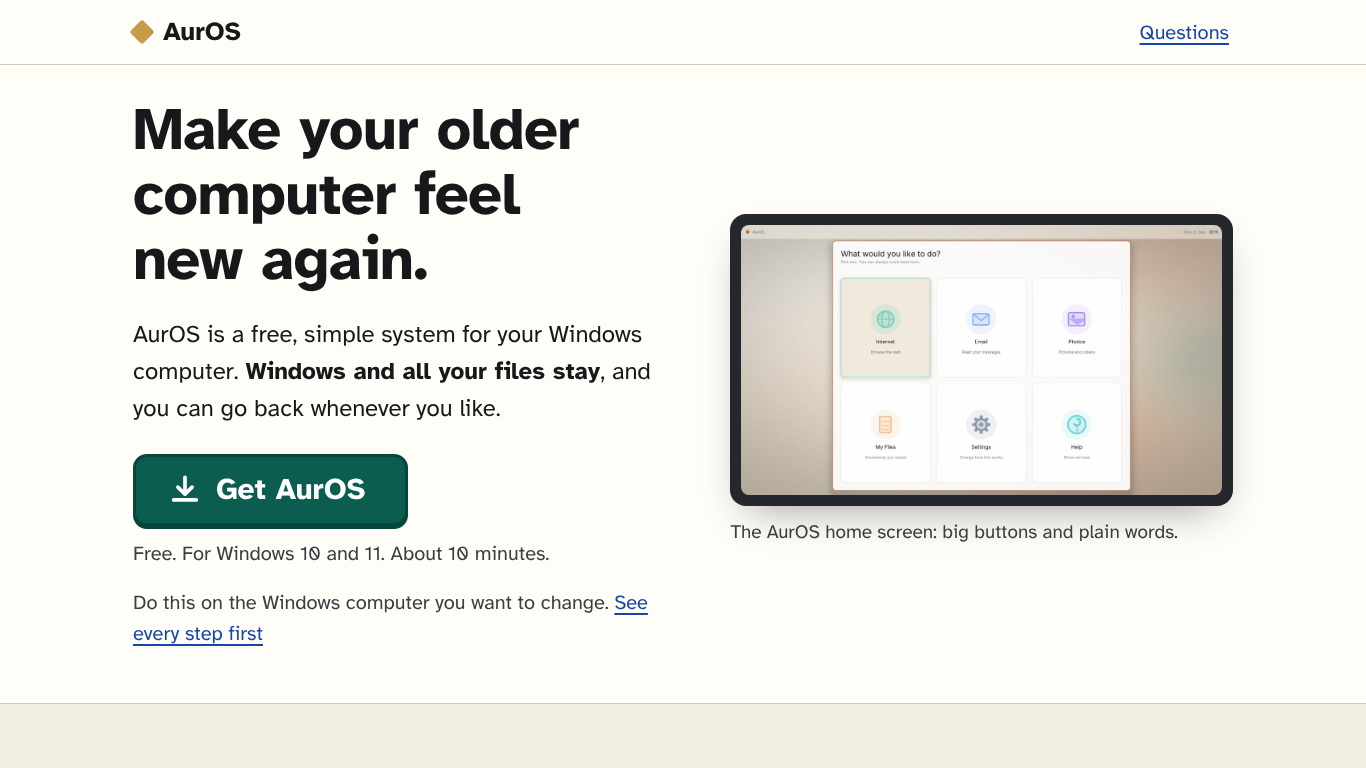
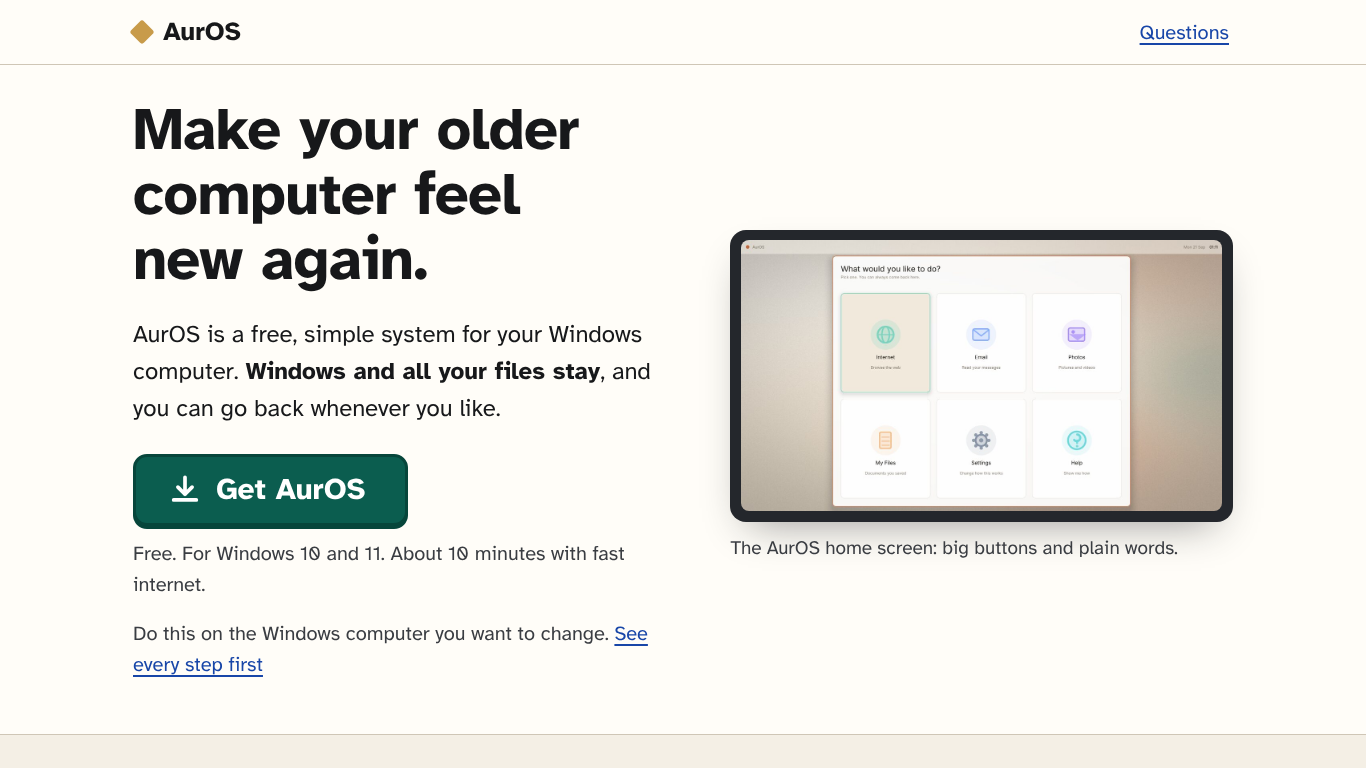
Website: say truthfully what happens before Yes; 32-bit; no 404 deploys
The front page, its FAQ, the printed guide and the story page promised
that until she presses Yes, switching the computer on still starts
Windows. It doesn't: auros-hold re-arms BootNext on every start, so
AurOS keeps coming back until she answers, and only an AurOS that fails
to start falls through to Windows. They now say what is true: until Yes,
Windows and her files are kept as they were; if AurOS ever fails to
start, the computer starts Windows by itself; "No, go back to Windows"
brings it back.

32-bit Windows in Firefox has no UA hints and a UA string without
Win64, WOW64 or x64, and it was offered the x64-only installer. door.js
now reads that and shows "AurOS can't go on this computer". check.mjs
gains 32-bit (Firefox and Edge's hints) and WOW64 cases; the previous
site fails the new one, this one passes 96 of 96.

pages.yml no longer publishes a front door whose one button is a 404:
the check job asks for the first byte of #get's address and the deploy
runs only on 200 or 206, otherwise it is skipped with a warning and a
summary saying what to publish. Today there is no full release, so it
skips.

Copy: AurOS takes up to 40 GB and Windows always keeps at least 20 GB
(15% of a big drive); "about 10 minutes" is for a newer computer with a
solid-state drive and fast internet.

Claude-Session: https://claude.ai/code/session_017qioTeikWexSpAiM6y9oSA

diff --git a/website/index.html b/website/index.html
@@ -40,7 +40,7 @@
             <svg class="get-icon" viewBox="0 0 24 24" aria-hidden="true" focusable="false"><path d="M12 3v12m0 0l-5-5m5 5l5-5M4 19h16" fill="none" stroke="currentColor" stroke-width="2.6" stroke-linecap="round" stroke-linejoin="round"/></svg>
             <span>Get AurOS</span>
           </a>
-          <p class="get-note">Free. For Windows&nbsp;10 and 11. About 10&nbsp;minutes.</p>
+          <p class="get-note">Free. For Windows&nbsp;10 and 11. About 10&nbsp;minutes with fast internet.</p>
           <p class="old-win" id="old-win" hidden>AurOS needs Windows&nbsp;10 or&nbsp;11, and this computer may have an older Windows. The installer checks first and will tell you.</p>
         </div>
 
@@ -284,7 +284,7 @@
             </figure>
           </div>
           <p>AurOS gets ready while you wait. Then the computer <b>restarts once, by itself</b>. Leave it switched on.</p>
-          <p>When AurOS starts, it asks whether everything works. Have a look around first if you like. <b>Until you press Yes, switching the computer on still starts Windows.</b></p>
+          <p>When AurOS starts, it asks whether everything works. Have a look around first if you like; it asks again next time. <b>Until you press Yes, Windows and your files are kept just as they were.</b> If AurOS ever fails to start, the computer starts Windows by itself, and <b>No, go back to Windows</b> brings Windows back.</p>
           <div class="pics">
             <figure class="replica" id="shot-ask" role="img" aria-label="Picture of AurOS asking: Does everything work? With the buttons Yes, it all works; Let me look first; and No, go back to Windows.">
               <div class="r-aur">
@@ -335,8 +335,9 @@
     <div class="wrap">
       <h2 id="know-title">Good to know</h2>
       <dl class="facts">
-        <div><dt>How long it takes</dt><dd>About 10 minutes on a typical computer with fast internet. An older computer with a spinning hard disk, or slow internet, takes longer.</dd></div>
+        <div><dt>How long it takes</dt><dd>About 10 minutes on a newer computer with a solid-state drive and fast internet. An older computer with a spinning hard disk, or slow internet, takes longer.</dd></div>
         <div><dt>Which computers</dt><dd>A Windows&nbsp;10 or Windows&nbsp;11 computer made after about 2013. Not Macs, Chromebooks, phones or tablets.</dd></div>
+        <div><dt>Room it needs</dt><dd>AurOS uses up to 40&nbsp;GB of the empty space on your computer (less on a small drive), and always leaves Windows at least 20&nbsp;GB free, more on a big drive. The installer checks this for you.</dd></div>
         <div><dt>Keep it plugged in</dt><dd>Plug in the charger before you start, and leave it in until AurOS has started.</dd></div>
         <div><dt>If AurOS can&rsquo;t go on your computer</dt><dd>The installer checks your computer first. If something would stop AurOS working, it says so in plain words <b>before it changes anything</b>, and your computer stays exactly as it was.</dd></div>
       </dl>
@@ -357,7 +358,7 @@
       </div>
       <div class="qa">
         <h3>Can I go back to Windows?</h3>
-        <p>Yes. Until you tell AurOS that everything works, the computer still starts Windows. After that, <b>Put Windows back</b> in AurOS&rsquo;s Settings makes the computer start Windows again, as it was.</p>
+        <p>Yes. Until you tell AurOS that everything works, Windows and your files are kept just as they were, and <b>No, go back to Windows</b> brings Windows back. If AurOS ever fails to start, the computer starts Windows by itself. Later, <b>Put Windows back</b> in AurOS&rsquo;s Settings makes the computer start Windows again, as it was.</p>
       </div>
       <div class="qa">
         <h3>What about my programs, like Microsoft Office?</h3>

diff --git a/website/how-it-works.html b/website/how-it-works.html
@@ -140,9 +140,9 @@
             <p class="big">AurOS lives in space Windows isn&rsquo;t using. Here&rsquo;s what I need for that to work:</p>
             <ul class="need">
               <li><b>Windows</b><span>10 or 11, started the modern way (UEFI). Almost every PC from the last ten years is.</span></li>
-              <li><b>Free space</b><span>About 50 GB on C:. AurOS keeps 28 GB; the rest is room to work while it copies.</span></li>
+              <li><b>Free space</b><span>AurOS takes up to 40 GB of the space Windows isn&rsquo;t using (less on a small drive), and always leaves Windows at least 20 GB free, or 15% of a big drive.</span></li>
               <li><b>Internet</b><span>A 1.8 GB download, wired or reliable wireless.</span></li>
-              <li><b>Time</b><span>About 10 minutes on a typical computer with fast internet; longer on an old hard disk or slow internet.</span></li>
+              <li><b>Time</b><span>About 10 minutes on a newer computer with a solid-state drive and fast internet; longer on a spinning hard disk or slow internet.</span></li>
               <li><b>Secure Boot</b><span>Leave it on.</span></li>
             </ul>
           </div>
@@ -172,7 +172,7 @@
         <div>
           <h2>The way back.</h2>
           <p class="big">Before the installer changes a single byte of Windows, it saves exactly how I started, and keeps that copy in two places.</p>
-          <p>Until you tell AurOS it works, switching me on still starts Windows. &ldquo;Put Windows back&rdquo; is in AurOS&rsquo;s Settings and in my start-up menu, behind a question whose answer starts at No. It gives Windows all of its drive back and switches me off; switched on again, Windows starts.</p>
+          <p>Until you tell AurOS it works, Windows is kept exactly as it was, and if AurOS ever fails to start, I start Windows by myself. &ldquo;Put Windows back&rdquo; is in AurOS&rsquo;s Settings and in my start-up menu, behind a question whose answer starts at No. It gives Windows all of its drive back and switches me off; switched on again, Windows starts.</p>
           <p>The tests do it twice on every build, then check every file in Windows against its fingerprint from before the install. They all match.</p>
           <p class="only-installed"><button class="btn btn-ghost" type="button" id="putback">Put Windows back</button> <span class="mono" id="putback-say" style="color:var(--muted)"></span></p>
         </div>
@@ -310,8 +310,8 @@
     <h3 id="ask-title">AurOS is on this computer</h3>
     <p class="sub">Have a look around. Nothing has been decided yet.</p>
     <ul>
-      <li>Right now, switching this computer on still starts Windows.</li>
-      <li>That stays true until you press Yes.</li>
+      <li>Until you press Yes, Windows is kept just as it was.</li>
+      <li>If AurOS ever fails to start, this computer starts Windows by itself.</li>
       <li>This will ask again next time, so there is no hurry.</li>
     </ul>
     <div class="row">

diff --git a/website/assets/door.js b/website/assets/door.js
@@ -88,11 +88,21 @@
     showElsewhere(kind);
   } else if (kind === "windows") {
     if (/Windows NT (5|6)\./.test(ua)) $("old-win").hidden = false;
+    var uad = navigator.userAgentData;
+    var hints = uad && typeof uad.getHighEntropyValues === "function";
+    /* Without Chrome's hints (Firefox), the old UA string still tells
+     * 64-bit Windows apart: a 64-bit browser says Win64/x64, a 32-bit
+     * one on 64-bit Windows says WOW64, and on 32-bit Windows it says
+     * neither. Chrome and Edge always say "Win64; x64", so for them the
+     * hints below decide. */
+    if (!hints) {
+      if (/ARM64|aarch64/i.test(ua)) showElsewhere("arm");
+      else if (!/Win64|WOW64|x64|x86_64|amd64/i.test(ua)) showElsewhere("win32");
+    }
     /* Chrome and Edge say what the processor is. "arm" means the
      * computer is ARM even when this browser runs as x64 under
-     * emulation. Firefox can't tell us; then we don't guess. */
-    var uad = navigator.userAgentData;
-    if (uad && typeof uad.getHighEntropyValues === "function") {
+     * emulation. */
+    if (hints) {
       uad.getHighEntropyValues(["architecture", "bitness"]).then(function (v) {
         if (v && v.architecture === "arm") showElsewhere("arm");
         else if (v && v.bitness === "32") showElsewhere("win32");

diff --git a/website/assets/drive.js b/website/assets/drive.js
@@ -346,7 +346,7 @@
     if (!installed) return saysDefault;
     if (answer === "yes") return "<b>AurOS starts from now on.</b> Windows is still in its own partition, smaller, every file untouched. &ldquo;Put Windows back&rdquo; is further down.";
     if (answer === "no") return "<b>Windows starts next time.</b> AurOS is still on my drive and nothing has been deleted. &ldquo;Put Windows back&rdquo; gives Windows its space back.";
-    return "<b>AurOS is on me now.</b> Two new partitions, in space Windows wasn’t using. Switching me on still starts Windows until someone answers Yes.";
+    return "<b>AurOS is on me now.</b> Two new partitions, in space Windows wasn’t using. Until someone answers Yes, Windows is kept just as it was, and if AurOS ever fails to start, I start Windows by myself.";
   }
 
   /* ── the one restart ────────────────────────────────────────────── */

diff --git a/website/assets/door.css b/website/assets/door.css
@@ -264,6 +264,7 @@ html.signed .unsigned-only { display: none; }
 /* ── good to know ─────────────────────────────────────────────── */
 .facts { margin: 24px 0 0; display: grid; grid-template-columns: repeat(auto-fit, minmax(min(100%, 420px), 1fr)); gap: 20px; }
 .facts > div { background: var(--card); border: 2px solid var(--line); border-radius: 14px; padding: 20px 22px; }
+.facts > div:last-child:nth-child(odd) { grid-column: 1 / -1; }
 .facts dt { font-weight: 700; font-size: 23px; margin-bottom: 6px; }
 .facts dd { margin: 0; }
 

diff --git a/website/guide.html b/website/guide.html
@@ -68,7 +68,7 @@
         <li class="g-stop"><h3>It restarts once, by itself</h3>
           <p><b>Leave it switched on</b> until AurOS has started.</p></li>
         <li><h3>&ldquo;Does everything work?&rdquo;</h3>
-          <p><b>Yes, it all works</b> keeps AurOS. <b>No, go back to Windows</b> makes Windows start again. Until you press Yes, switching on still starts Windows.</p></li>
+          <p><b>Yes, it all works</b> keeps AurOS. <b>No, go back to Windows</b> brings Windows back. Until you press Yes, Windows and your files are kept just as they were.</p></li>
       </ol>
 
       <div class="g-cols">

diff --git a/docs/handoff/SESSION-2026-10-23.md b/docs/handoff/SESSION-2026-10-23.md
@@ -250,3 +250,19 @@ others operate this way with agreements).
   (gapselftest on real Windows; shared planner + new journal mode + prepared
   engine phases; staging prepared mode + putback task). Wizard agent: BitLocker
   suspend (`-RebootCount 2`) is NOT in yet -- keep auto-decrypt until step 2 lands.
+- 03:30 Website review fixes. (1) The site promised "until you press Yes,
+  switching on still starts Windows"; auros-hold re-arms BootNext, so AurOS
+  keeps starting until she answers. Now (front page, FAQ, guide, story
+  page): until Yes, Windows and her files are kept as they were; if AurOS
+  fails to start the PC starts Windows by itself; "No, go back to Windows"
+  brings it back. (2) 32-bit Windows on Firefox (no UA hints, UA without
+  Win64/WOW64/x64) got the x64 button; now "AurOS can't go on this
+  computer". New check cases fail on the previous site (5) and pass (96/0).
+  (3) pages.yml publishes only when `#get`'s URL answers 200/206; until a
+  full release carries AurOS-Setup.exe the deploy is skipped with a
+  warning. Release.yml publishes with GITHUB_TOKEN, which starts no other
+  workflow: after the first [latest] release, run `pages` by hand (or have
+  release.yml `gh workflow run pages.yml`, needs `actions: write`). Copy:
+  up to 40 GB for AurOS, Windows keeps at least 20 GB (15% on big drives);
+  "about 10 minutes" now says newer computer, solid-state drive, fast
+  internet.
